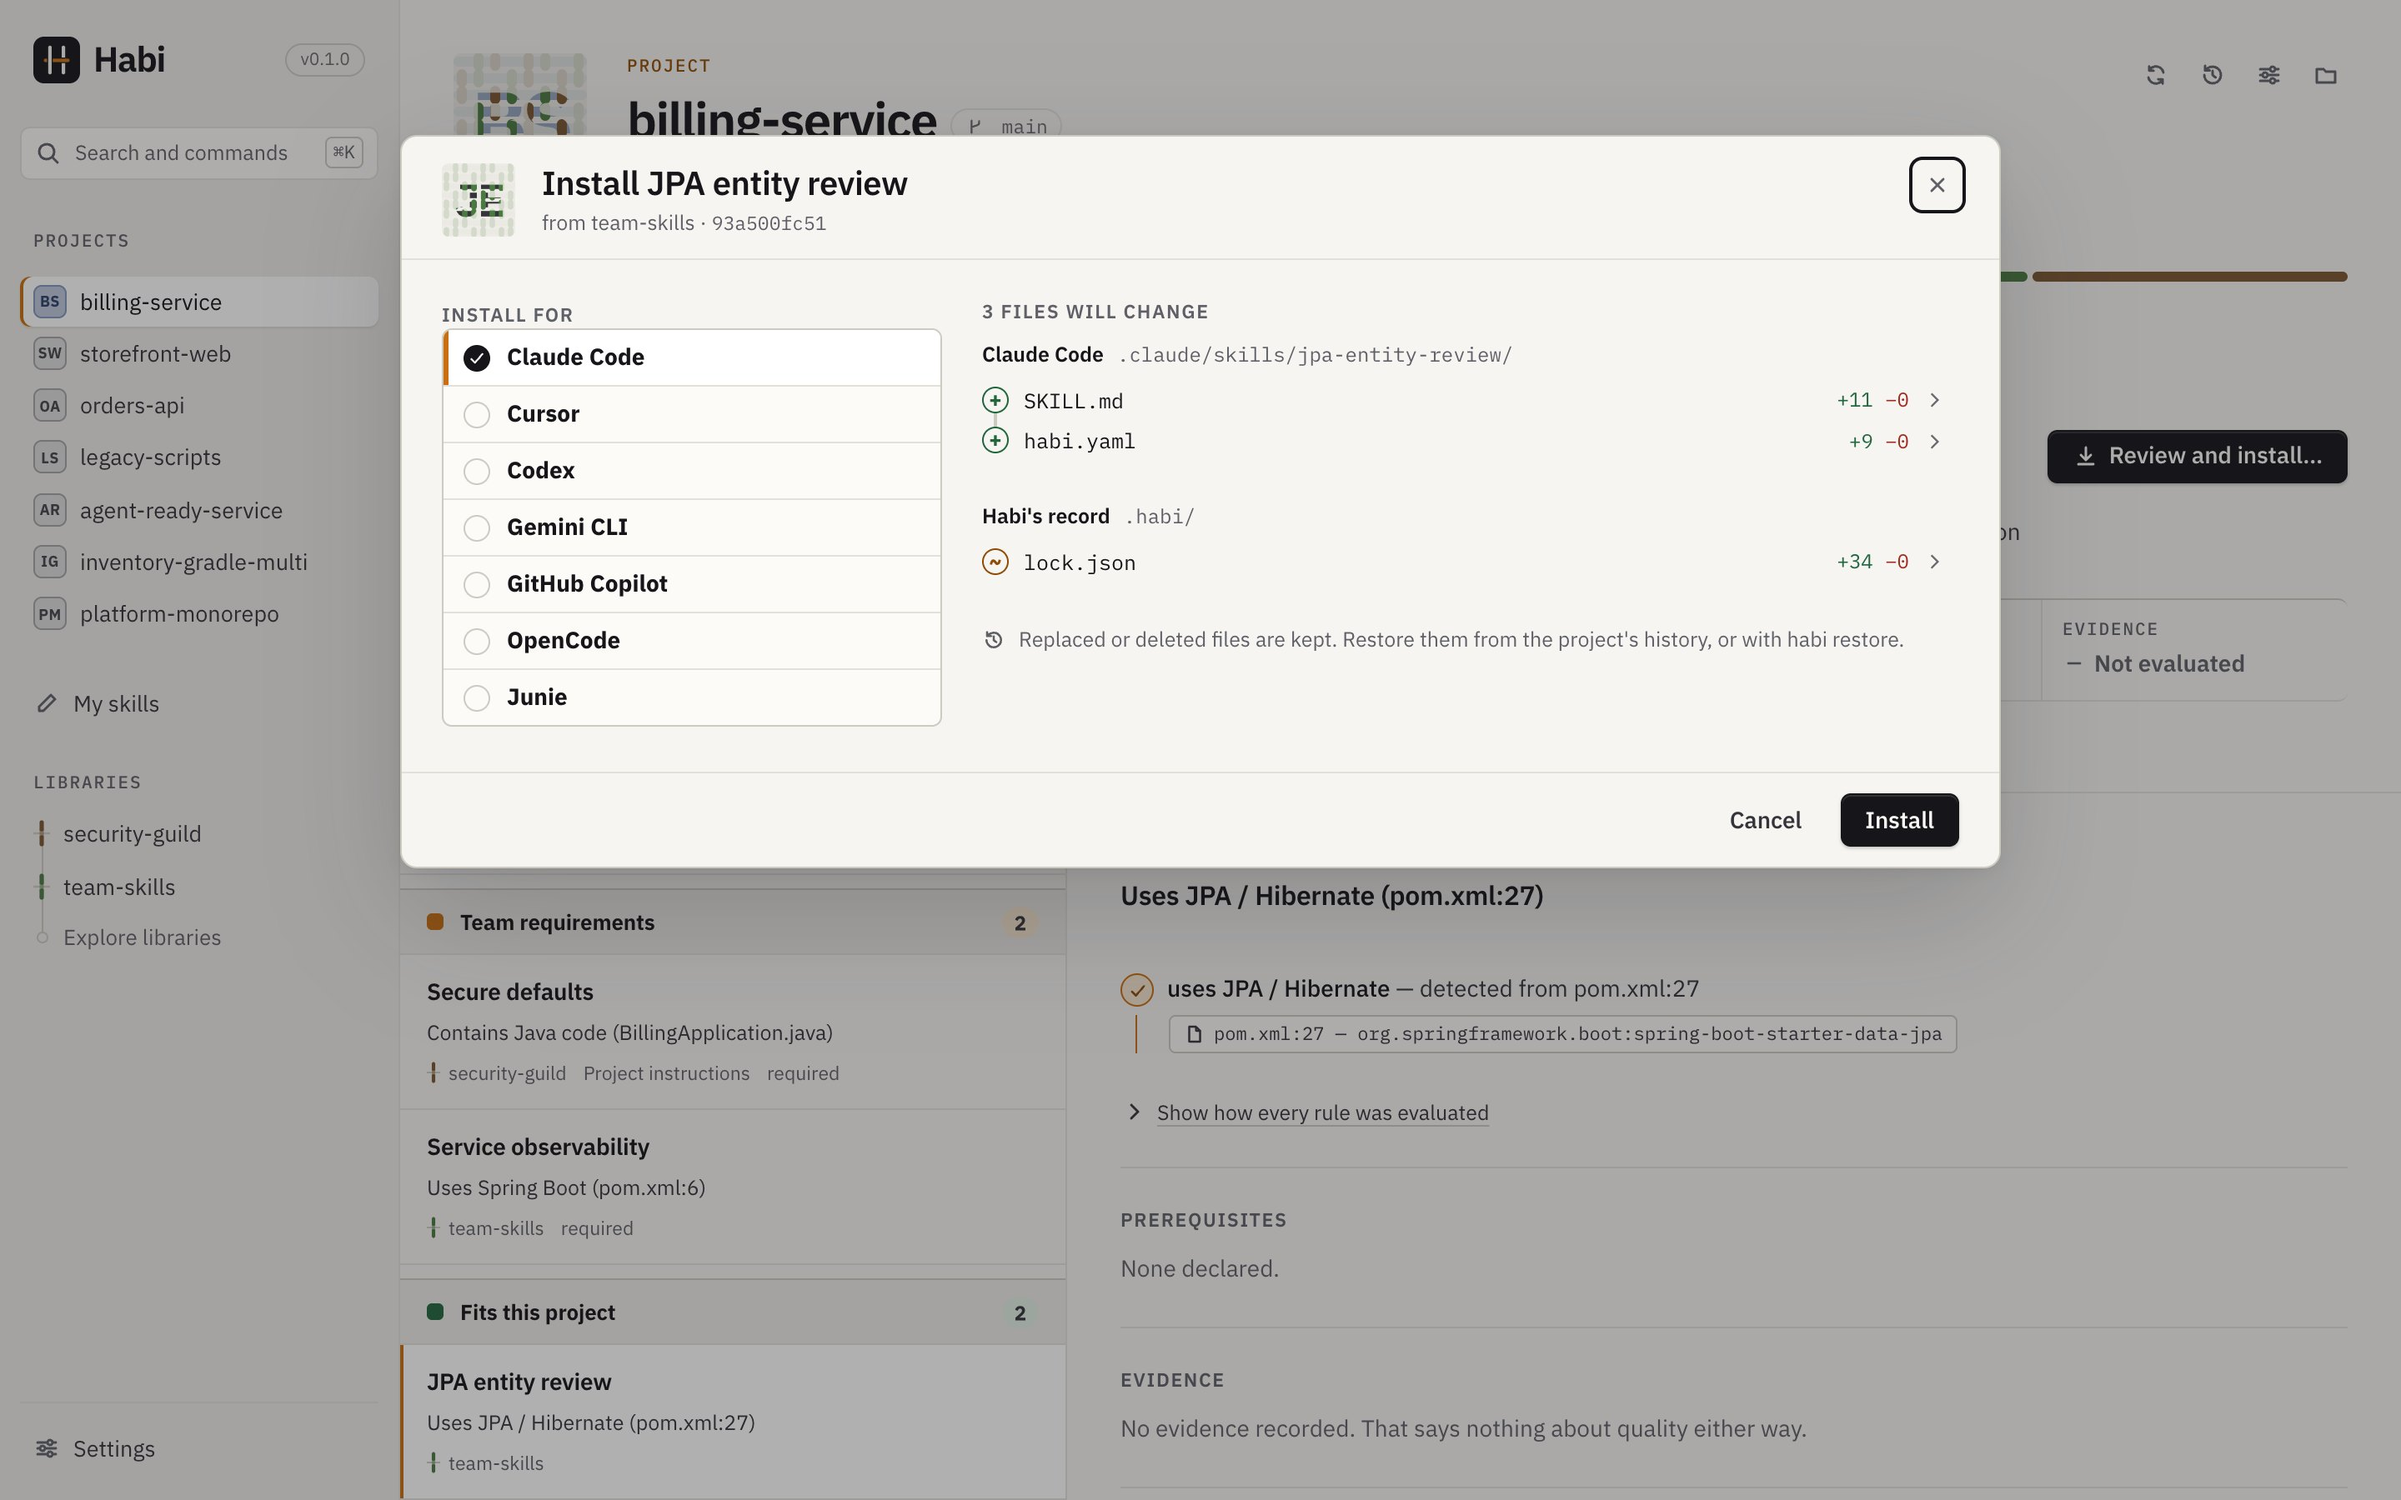
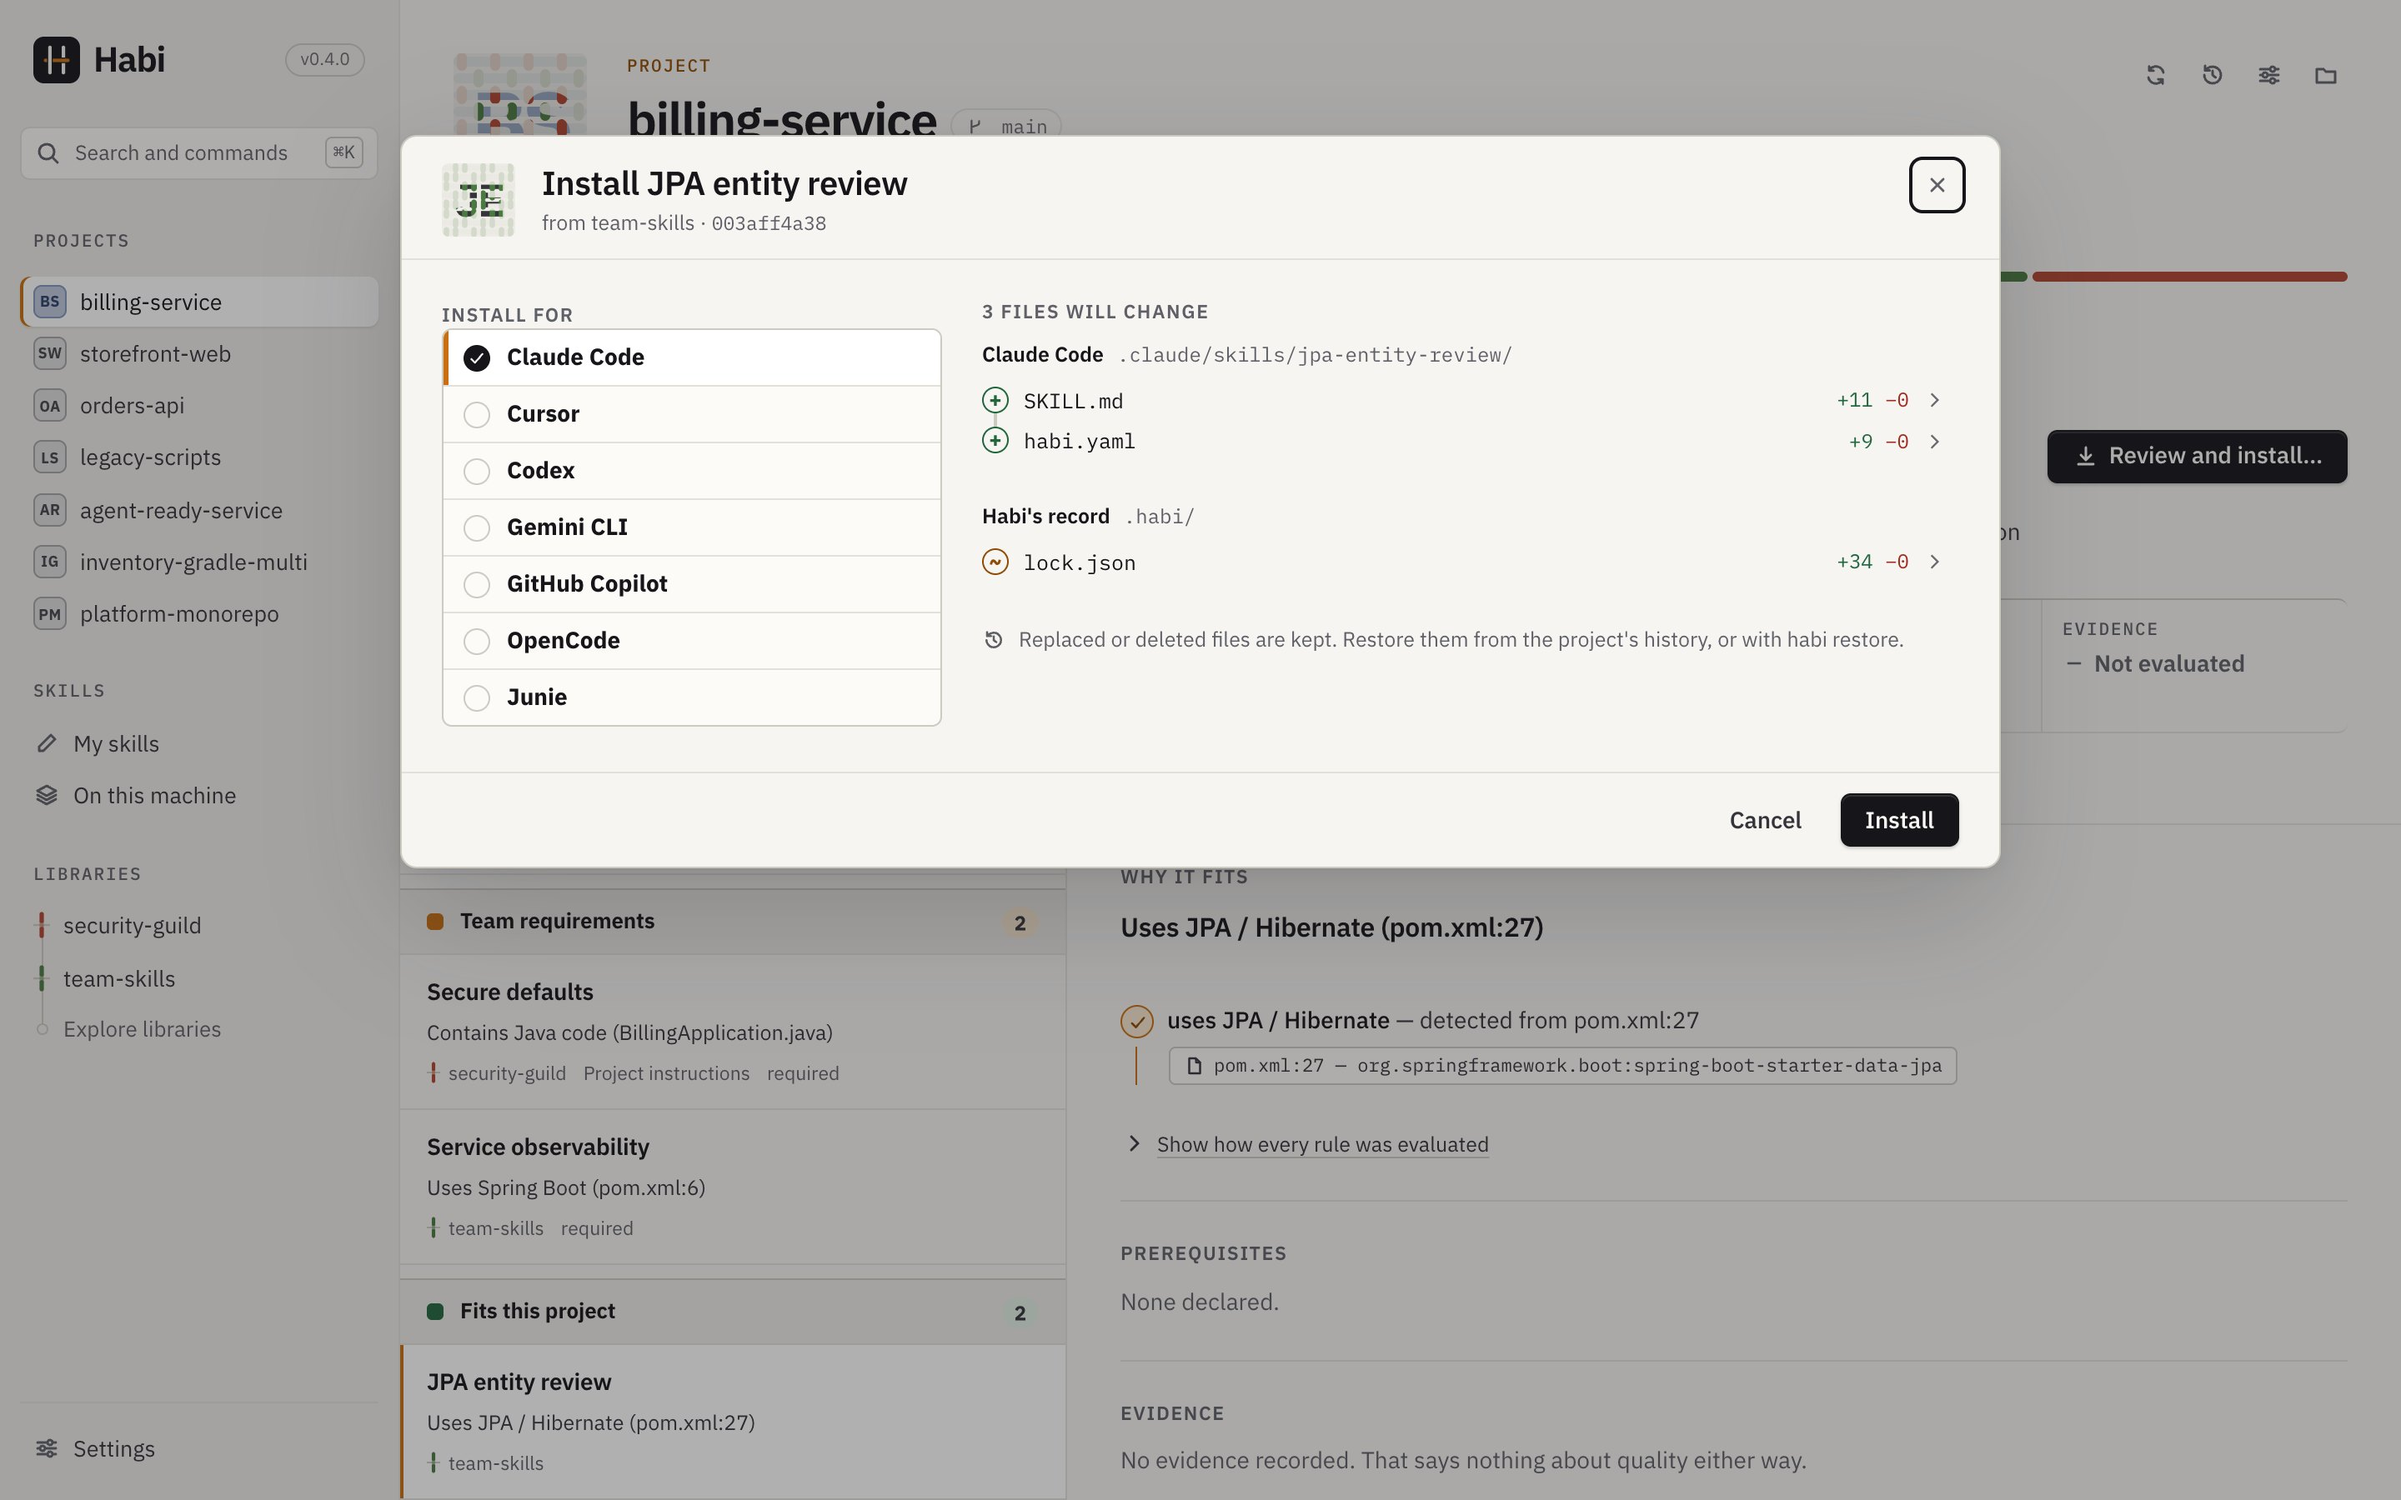
Prepare Habi v0.4.0
Set the version to 0.4.0 in the four manifests and write the changelog
entry: the Explore page, one-line libraries, Skills in the sidebar, three
more community libraries, the sample workspace's removal and this
release's fixes.

Retake the docs screenshots at 0.4.0 with the Skills sidebar section,
lead the release page's gallery with Explore and On this machine, and
check the machine screenshots against this release's notes.

diff --git a/CHANGELOG.md b/CHANGELOG.md
@@ -7,11 +7,15 @@ All notable changes to Habi are listed here. The format follows
 
 ## Unreleased
 
+## 0.4.0 - 2026-10-30
+
+Explore the catalog on a page of its own, keep many libraries in view at a glance, and reach your skills from their own place in the sidebar.
+
 ### Added
 
 - **Three more community libraries in the catalog.** Trail of Bits' security and audit skills,
   UI/UX Pro Max's design skills, and Impeccable's design vocabulary can be previewed and
-  connected from Libraries.
+  connected from Explore.
 
 ### Changed
 
@@ -31,6 +35,15 @@ All notable changes to Habi are listed here. The format follows
 - **The sample workspace.** Habi no longer offers example libraries and projects; open one of
   your own projects and connect a library instead. A sample workspace made by an earlier
   version is removed on startup, with nothing of your own touched.
+
+### Fixed
+
+- **Back says where it goes.** From Explore, a catalog library, the pages for connecting your own,
+  or a skill opened from On this machine, the Back link names the page it returns to.
+- **Builder libraries are called builders.** Hovering a library from Anthropic, Google, Sentry
+  and the other tool builders in the sidebar no longer labels it community.
+- **Clearer Libraries pages when nothing matches.** A filter with no results offers a way to clear
+  it, and Explore with every catalog library connected says so without an empty filter bar.
 
 ## 0.3.0 - 2026-10-26
 
